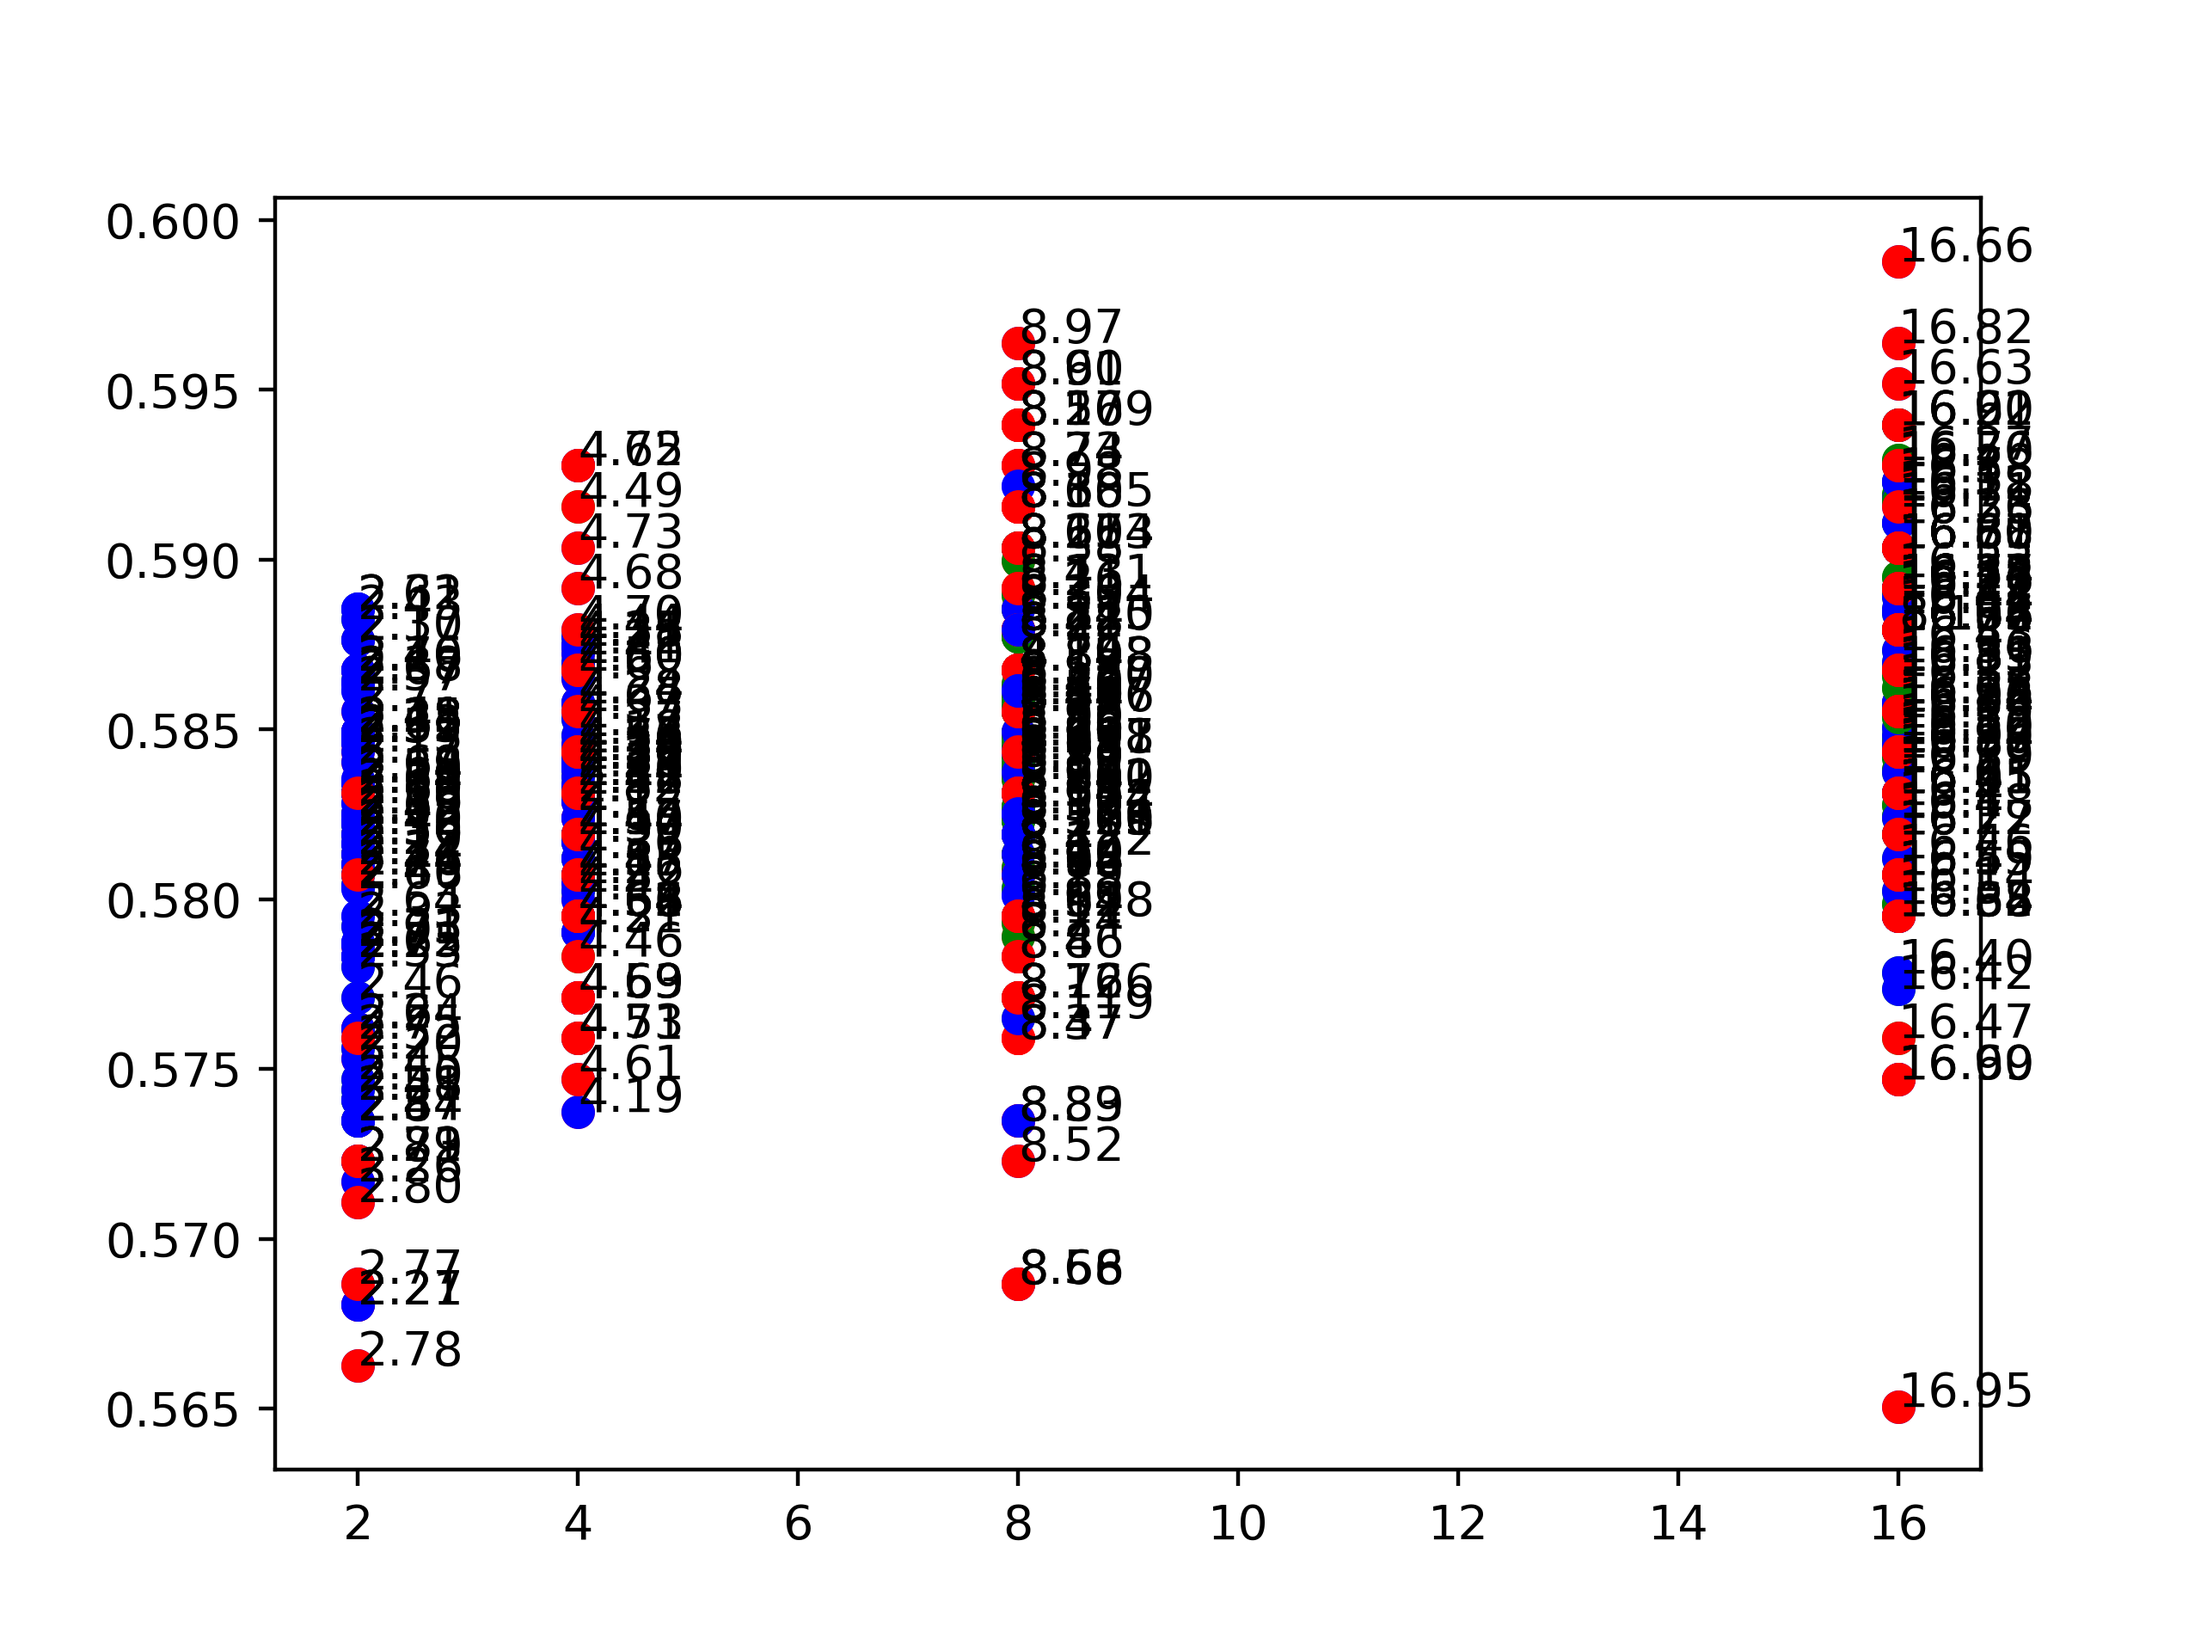
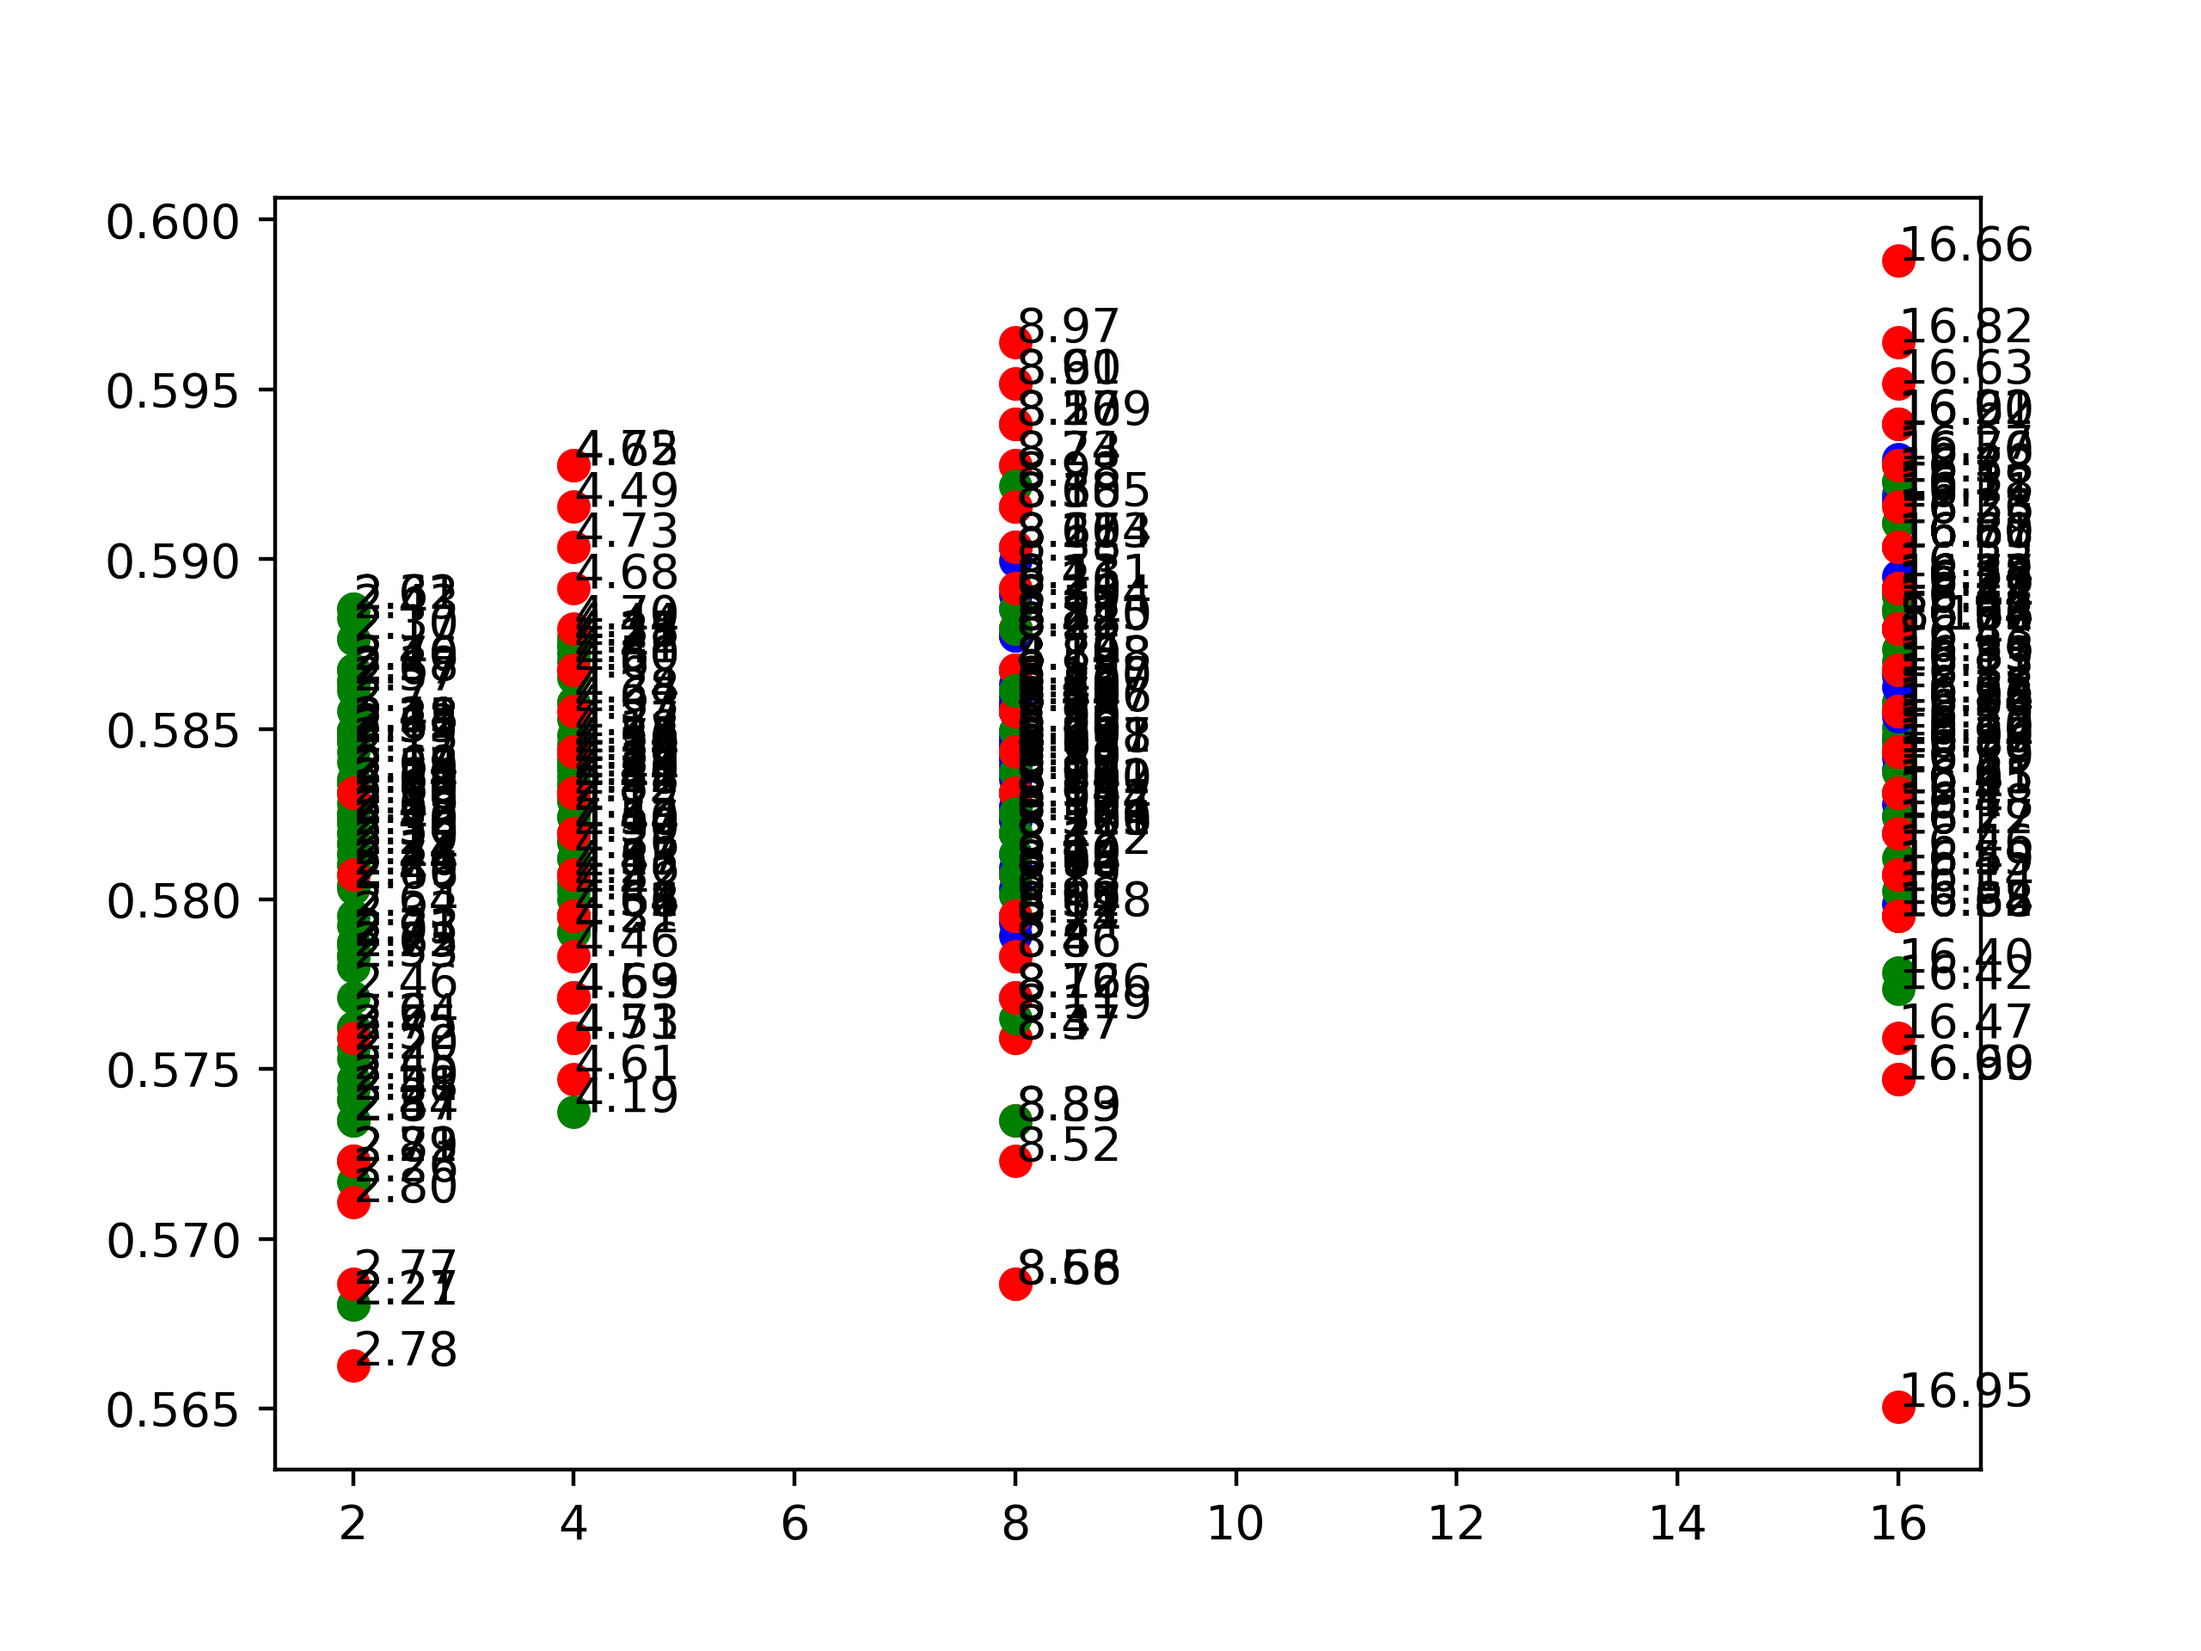
blue is best colour scheme

diff --git a/results/plot_results.py b/results/plot_results.py
@@ -38,9 +38,9 @@ def plot_file(results_name):
     dataTable = create_dataTable(create_dataList(tokenized_list))
 
     fig, ax = plt.subplots()
-    dataTable.plotSteps(ax, results_name, "save")
+    #dataTable.plotSteps(ax, results_name, "save")
     #dataTable.plotFilters(ax, results_name, "save")
-    #dataTable.plotCountWithConfigName(ax, results_name, "save")
+    dataTable.plotCountWithConfigName(ax, results_name, "save")
 
     config = open(results_name  + "_configs.txt", "w+")
     config.write(dataTable.getConfigs())

diff --git a/results/DataTable.py b/results/DataTable.py
@@ -52,9 +52,9 @@ class DataTable:
             if dataList.getSize() < 2:
                 c = 'r'
             elif dataList.getSize() < 6:
-                c = 'b'
-            elif dataList.getSize() < 11:
                 c = 'g'
+            elif dataList.getSize() < 11:
+                c = 'b'
             else:
                 c = 'k'
 
